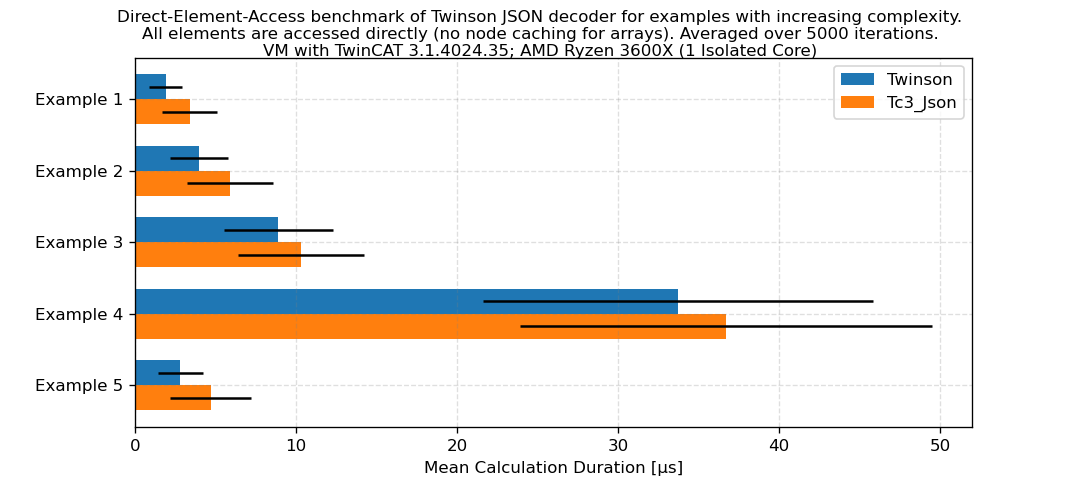
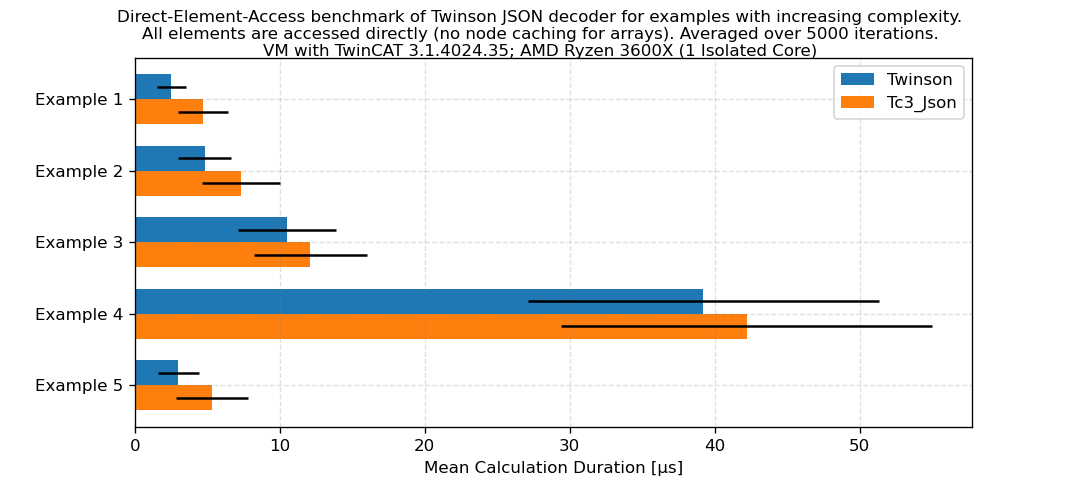
feat: avoid recursion when accessing an element

diff --git a/Benchmark/benchmark_plot.py b/Benchmark/benchmark_plot.py
@@ -5,9 +5,9 @@ import numpy as np
 
 
 ticks = ('Example 1', 'Example 2', 'Example 3', 'Example 4', 'Example 5')
-twinson_average_mean = [1.9, 4.0, 8.9, 33.7, 2.8]
+twinson_average_mean = [2.5, 4.8, 10.5, 39.2, 3.0]
 twinson_average_err = [1, 1.8, 3.4, 12.1, 1.4]
-domparser_average_mean = [3.4, 5.9, 10.3, 36.7, 4.7]
+domparser_average_mean = [4.7, 7.3, 12.1, 42.2, 5.3]
 domparser_average_err = [1.7, 2.7, 3.9, 12.8, 2.5]
 
 y_pos = np.arange(len(ticks))
